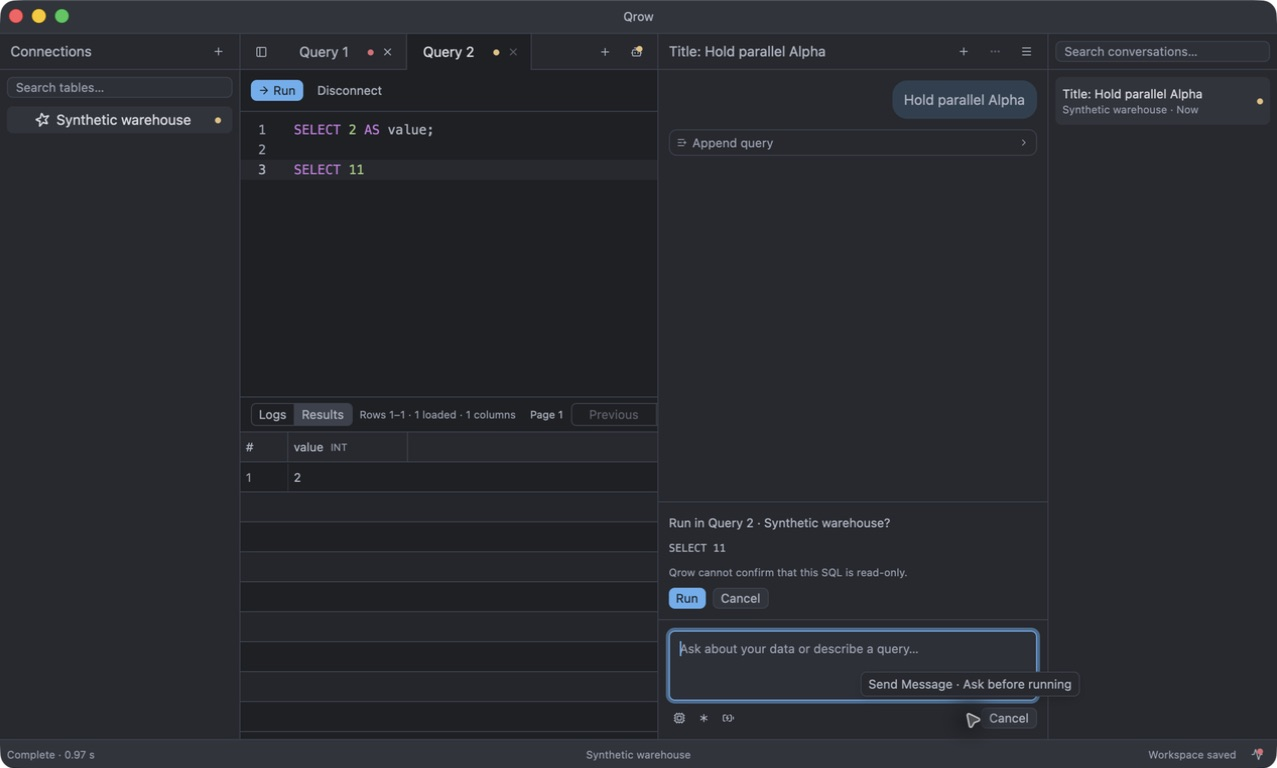
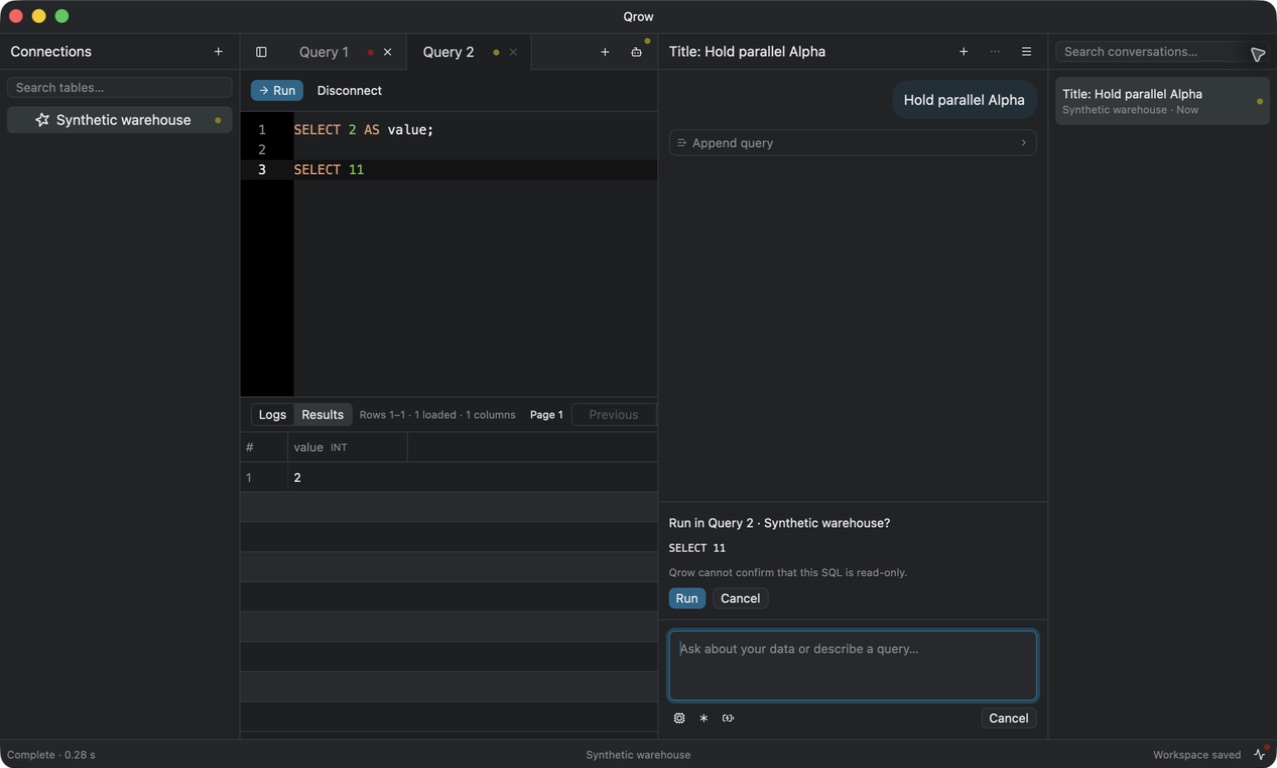
fix(ui): place status dots at button corners

diff --git a/src/ui/workspace_view.rs b/src/ui/workspace_view.rs
@@ -279,15 +279,11 @@ impl Qrow {
                                 .h(self.ui_px(28.))
                                 .accessibility_label(accessibility_label)
                                 .tooltip(tooltip)
-                                .child(DotStatus::on_icon(
-                                    status.dot_status(),
-                                    Icon::new(AssetIconName::Bot).small(),
-                                    cx,
-                                ))
+                                .icon(Icon::new(AssetIconName::Bot).small())
                                 .on_click(cx.listener(|this, _, window, cx| {
                                     this.toggle_assistant(window, cx)
                                 }));
-                        bar.child(toggle)
+                        bar.child(DotStatus::on_button(status.dot_status(), toggle, cx))
                     }),
             )
     }
@@ -457,18 +453,15 @@ impl Qrow {
             1 => label.push_str(", 1 unseen error"),
             count => label.push_str(&format!(", {count} unseen errors")),
         }
-        Button::new("toggle-activity")
+        let button = Button::new("toggle-activity")
             .ghost()
             .small()
             .selected(open)
-            .child(DotStatus::on_icon(
-                status,
-                Icon::new(AssetIconName::Activity).small(),
-                cx,
-            ))
+            .icon(Icon::new(AssetIconName::Activity).small())
             .accessibility_label(label.clone())
             .tooltip(format!("{label} · ⇧⌘U"))
-            .on_click(cx.listener(|this, _, window, cx| this.toggle_activity(window, cx)))
+            .on_click(cx.listener(|this, _, window, cx| this.toggle_activity(window, cx)));
+        DotStatus::on_button(status, button, cx)
     }
 
     fn status_bar(&self, cx: &mut Context<Self>) -> impl IntoElement {

diff --git a/tests/ui/assistant_chat.rs b/tests/ui/assistant_chat.rs
@@ -126,6 +126,7 @@ fn composer_controls_show_the_selected_codex_settings(cx: &mut TestAppContext) {
 #[gpui_kit::test]
 fn a_hidden_turn_reports_its_state_on_the_toggle(cx: &mut TestAppContext) {
     let (app, codex) = launch(cx, Workspace::default());
+    let idle_button = app.update(cx, |window, _| bounds_of(window, "toggle-assistant"));
     app.open_assistant(cx);
     // The synthetic server holds this turn until the release.
     app.send(cx, "Return to the latest message while hidden");
@@ -143,10 +144,14 @@ fn a_hidden_turn_reports_its_state_on_the_toggle(cx: &mut TestAppContext) {
             label(window, "toggle-assistant").as_deref(),
             Some("Toggle Assistant, working")
         );
+        assert_eq!(bounds_of(window, "toggle-assistant"), idle_button);
     });
     codex.mark("latest-release");
     app.wait_until(cx, "the reply-ready toggle", REPLY_TIMEOUT, |window, _| {
         label(window, "toggle-assistant").as_deref() == Some("Toggle Assistant, reply ready")
+    });
+    app.update(cx, |window, _| {
+        assert_eq!(bounds_of(window, "toggle-assistant"), idle_button);
     });
     app.click(cx, "toggle-assistant");
     app.wait_reply(cx, "I can help with this query");

diff --git a/src/ui/status_dot.rs b/src/ui/status_dot.rs
@@ -1,4 +1,4 @@
-use gpui_kit::component::{ActiveTheme, Icon, badge::Badge};
+use gpui_kit::component::{ActiveTheme, badge::Badge, button::Button};
 use gpui_kit::{AnyElement, App, IntoElement, ParentElement, Styled, div};
 
 /// One shared priority for the dots of tabs, connections, and conversations.
@@ -31,14 +31,14 @@ impl DotStatus {
             .into_any_element()
     }
 
-    pub(super) fn on_icon(status: Option<Self>, icon: Icon, cx: &App) -> AnyElement {
+    pub(super) fn on_button(status: Option<Self>, button: Button, cx: &App) -> AnyElement {
         match status {
             Some(status) => Badge::new()
                 .dot()
                 .color(status.color(cx))
-                .child(icon)
+                .child(button)
                 .into_any_element(),
-            None => icon.into_any_element(),
+            None => button.into_any_element(),
         }
     }
 }

diff --git a/tests/e2e/queries.rs b/tests/e2e/queries.rs
@@ -1,5 +1,5 @@
 use crate::support::fixture::{Kyuubi, PASSWORD, QUERY_TIMEOUT};
-use crate::support::{TestApp, cell, header};
+use crate::support::{TestApp, bounds_of, cell, header};
 use gpui_kit::TestAppContext;
 use gpui_kit::test::TestWindowExt;
 use qrow::model::SavedTab;
@@ -51,7 +51,10 @@ fn query_dots_keep_unread_results_until_their_own_tabs_show(cx: &mut TestAppCont
     app.update(cx, |window, cx| {
         assert!(window.try_find(dot(first)).is_none());
         assert!(window.try_find(connection.clone()).is_none());
+        let idle_button = bounds_of(window, "toggle-activity");
+        assert_eq!(idle_button.size.width, idle_button.size.height);
         window.click("run", cx);
+        assert_eq!(bounds_of(window, "toggle-activity"), idle_button);
         assert!(window.find(dot(first)).label().unwrap().contains("running"));
         assert!(
             window

diff --git a/tests/ui/queries.rs b/tests/ui/queries.rs
@@ -165,10 +165,15 @@ fn activity_does_not_read_a_hidden_tabs_local_error(cx: &mut TestAppContext) {
         },
         MemoryCredentials::default(),
     );
+    let idle_button = app.update(cx, |window, _| bounds_of(window, "toggle-activity"));
+    assert_eq!(idle_button.size.width, idle_button.size.height);
     app.click(cx, "toggle-activity");
     app.wait_for(cx, "activity");
     app.dispatch(cx, qrow::ui::RunQuery);
     app.wait_label(cx, "Activity, 1 unseen error");
+    app.update(cx, |window, _| {
+        assert_eq!(bounds_of(window, "toggle-activity"), idle_button);
+    });
     app.dispatch(cx, qrow::ui::NewTab);
     app.press(cx, "escape");
     app.wait_gone(cx, "activity");

diff --git a/docs/assistant.md b/docs/assistant.md
@@ -317,7 +317,8 @@ move the tab while its conversation works or waits for approval.
 Qrow shows the state of each conversation in the thread list and on its tab.
 A tab shows one status dot before its close button. The dot combines the
 query state and the conversation state. The **Toggle Assistant** button keeps
-its assistant icon. Its dot shows the most urgent state of all conversations.
+its assistant icon. Its dot is at the top right corner of the button.
+The dot shows the most urgent state of all conversations.
 The thread list shows a dot for each conversation.
 
 - A blue dot means that Codex works on a turn.

diff --git a/docs/activity.md b/docs/activity.md
@@ -51,8 +51,9 @@ copies that error. **Clear** deletes the log of the connection.
 
 ## Unseen errors
 
-The Activity icon keeps its shape. A red dot means that a connection has an
-unseen refresh error or a tab has an unread error. The tooltip and the
+The Activity icon keeps its shape. Its dot is at the top right corner of the
+button. A red dot means that a connection has an unseen refresh error or a
+tab has an unread error. The tooltip and the
 accessible name give the count. A refresh with several failed requests counts
 once. Each tab with an unread query or keep-alive error counts once.
 
